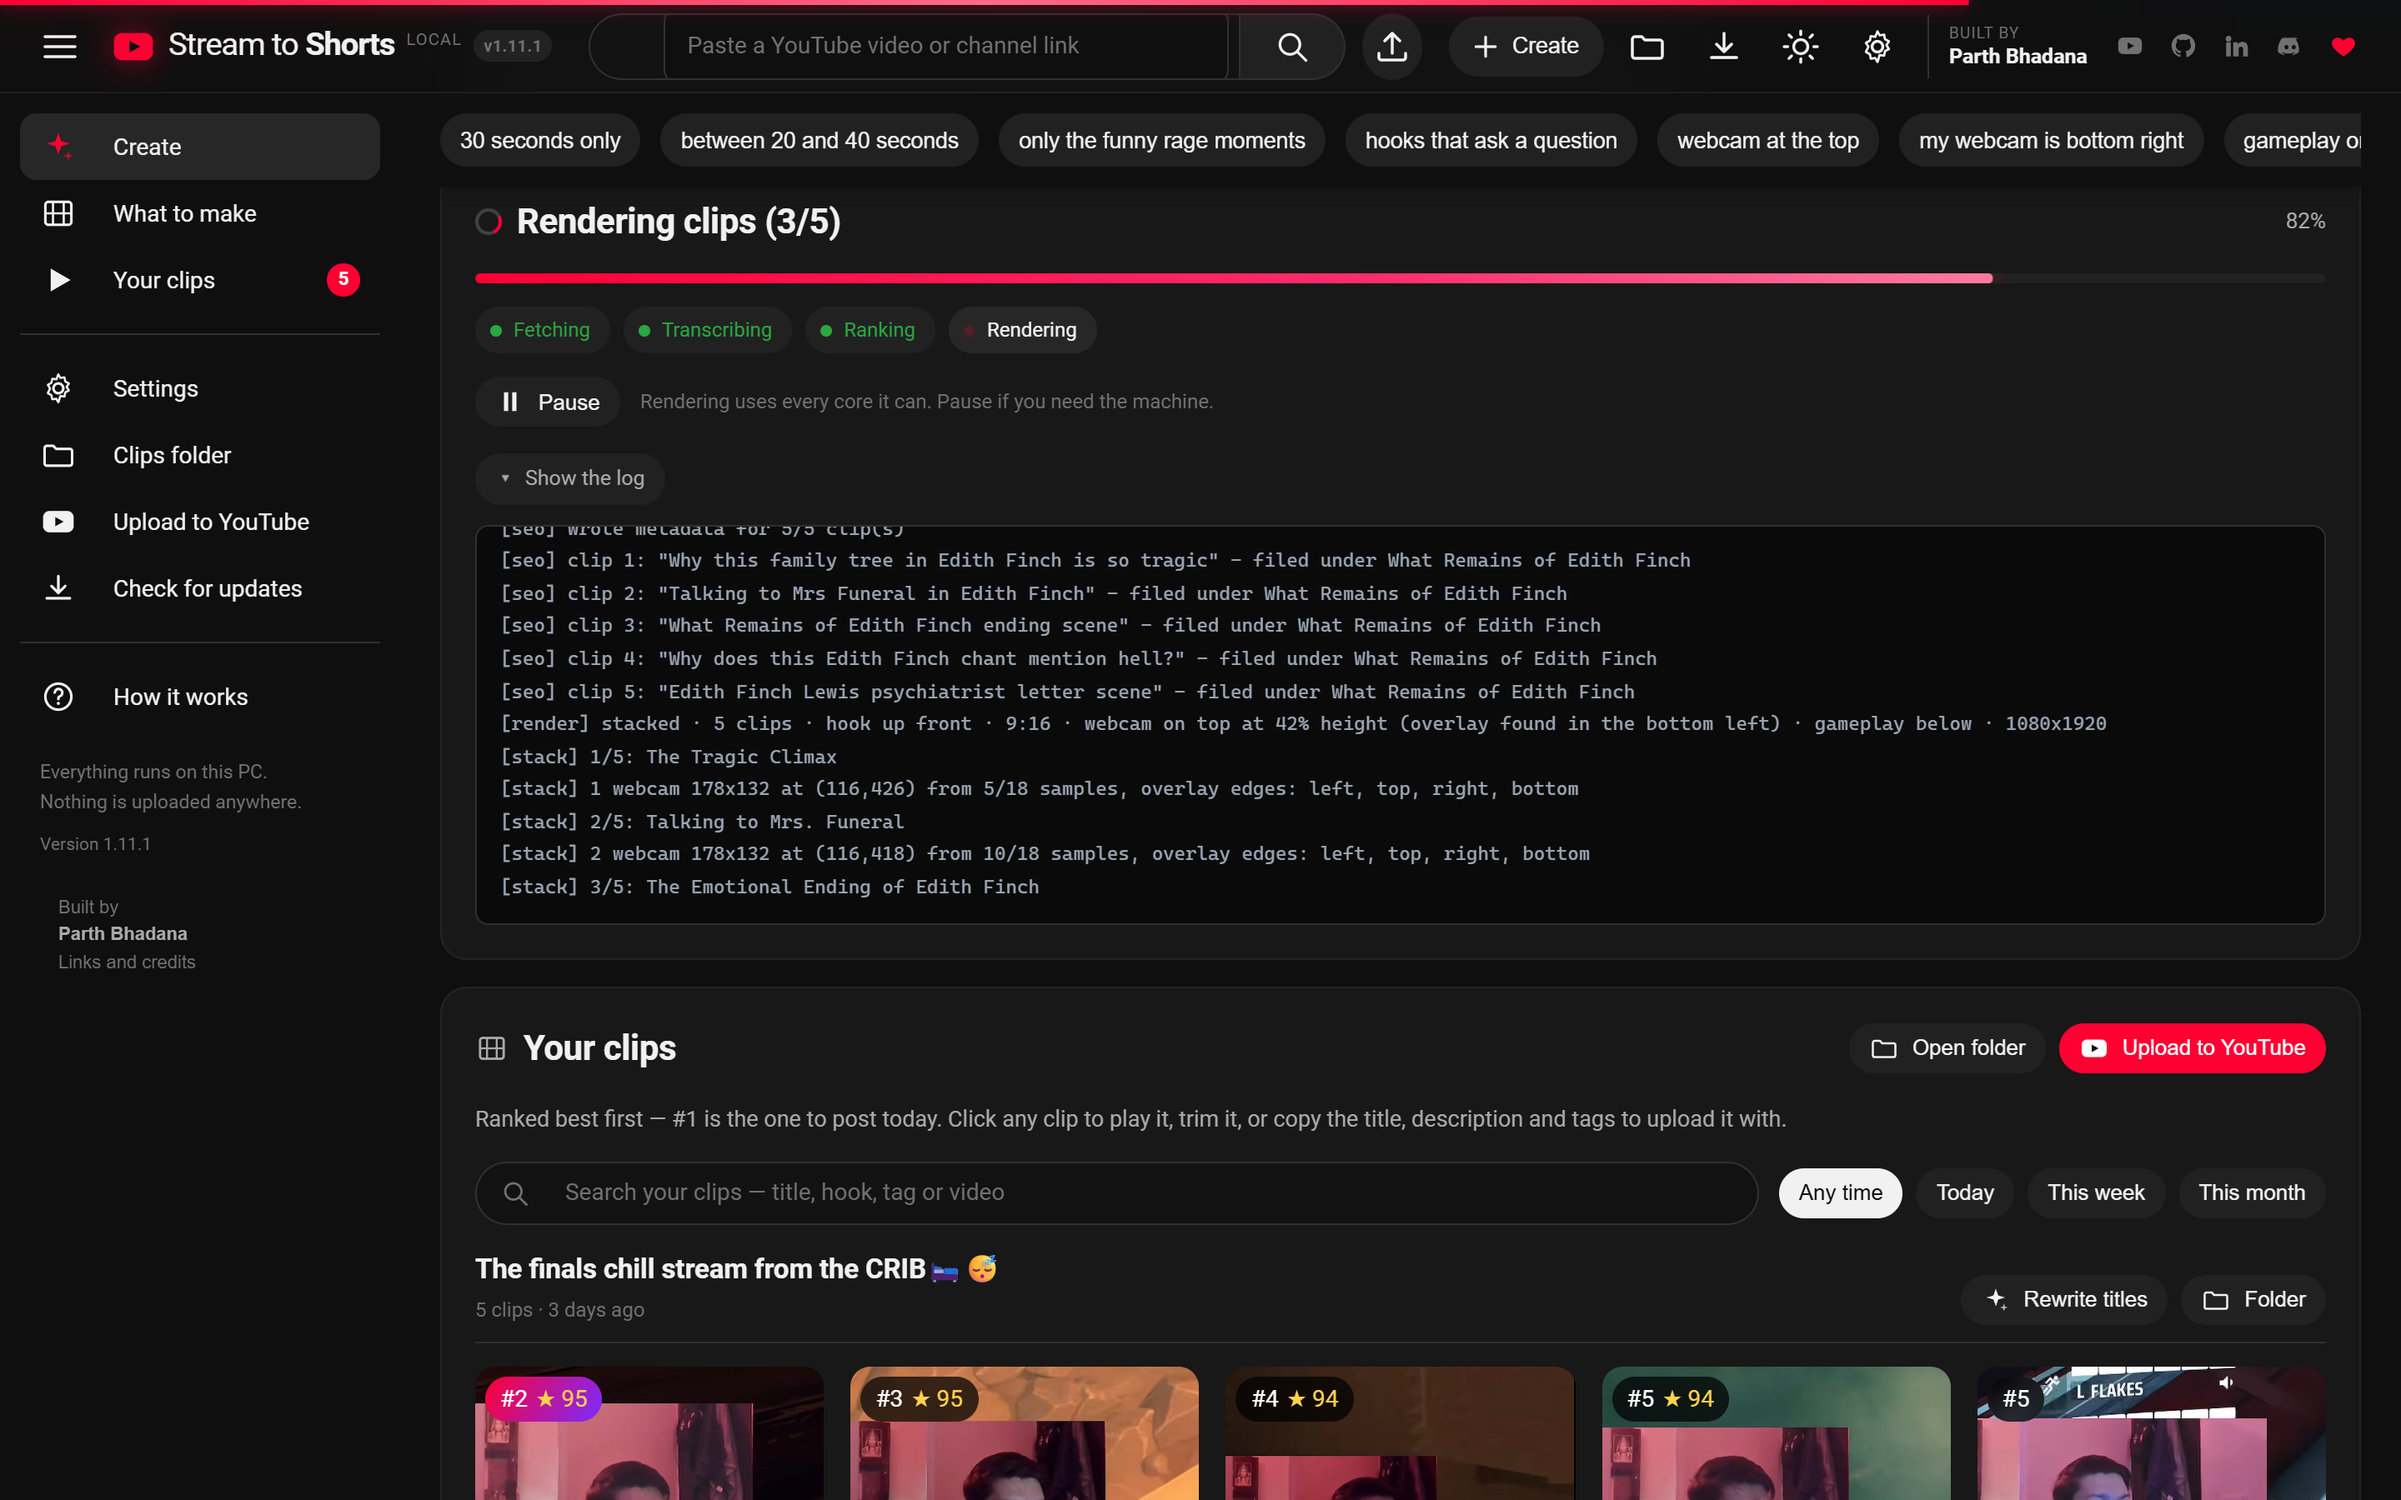
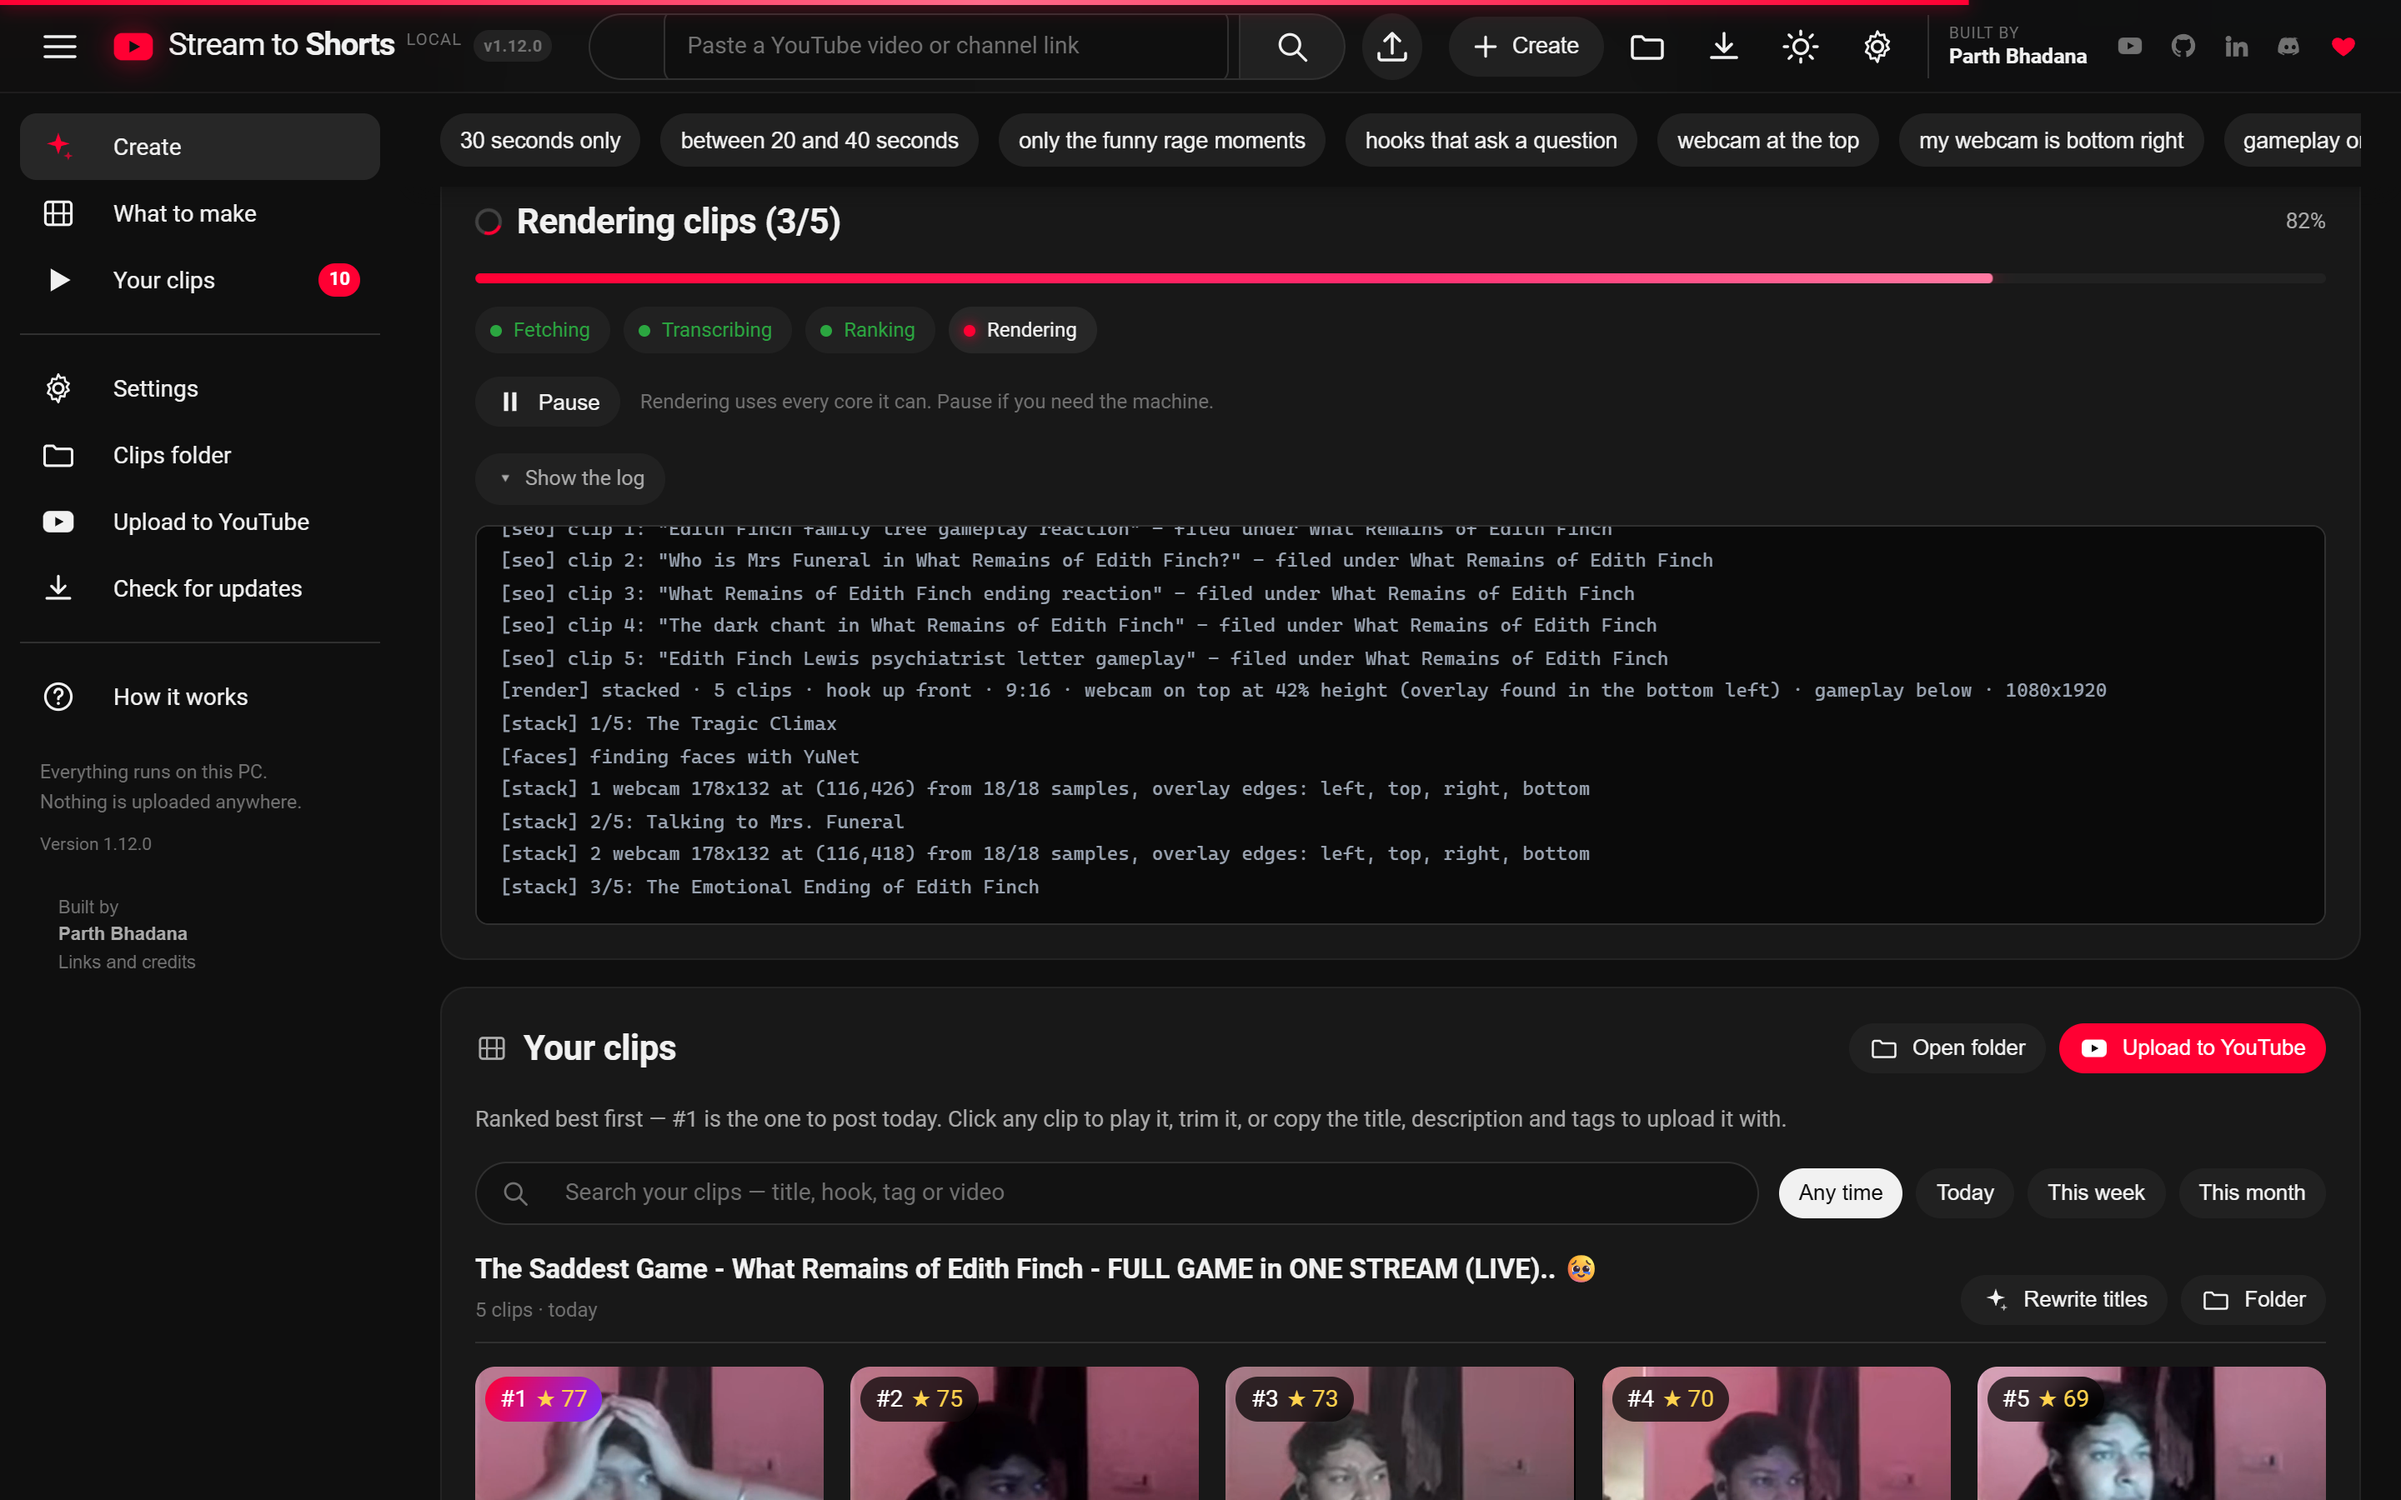
docs: v1.12.0 screenshots, a Processor screenshot, and the stale bits fixed
Screenshots: welcome, create, clips and progress retaken on v1.12.0 (they
showed v1.11.1); the progress log now shows YuNet finding the webcam from
18/18 samples. New 06-processor shows Settings -> Processor on Automatic, with
video on NVENC and transcription on CUDA.

README: authorship re-measured at v1.12.0 (25,072 lines, 94.4%, 198 commits),
build size 220 MB with the bundled face model noted. HOW_IT_WORKS: contents
link to the renamed packaging section fixed and 15b/16a-c listed, frontend
~5.2k lines, Processor in the Settings drawer and in live re-reading.
CONCEPTS: two sections were both 12a - renumbered and listed in the contents;
cooperative pause for in-process work; why-is-it-slow gains the GPU and the
seek fix.

diff --git a/CONCEPTS.md b/CONCEPTS.md
@@ -39,6 +39,10 @@ engineering is.
 10. [CS: reliability and failure design](#10-cs-reliability-and-failure-design)
 11. [CS: security boundaries](#11-cs-security-boundaries)
 12. [CS: operating systems and packaging](#12-cs-operating-systems-and-packaging)
+    - 12a. [Process control, and trust as a UX property](#12a-cs-process-control-and-trust-as-a-ux-property)
+    - 12b. [Indirection, and the things it must not reach](#12b-cs-indirection-and-the-things-it-must-not-reach)
+    - 12c. [Software distribution and self-update](#12c-cs-software-distribution-and-self-update)
+    - 12d. [Absence as a signal](#12d-cs-absence-as-a-signal)
 13. [CS: internationalisation](#13-cs-internationalisation)
 14. [Questions you should expect](#14-questions-you-should-expect)
 15. [What you would do next](#15-what-you-would-do-next)
@@ -906,6 +910,15 @@ and a gate on what starts next. Either alone leaves half the work going, and
 the race between them — a child started in the instant after the gate was
 checked — has to be closed deliberately rather than assumed away.
 
+And suspension only reaches *processes*. Work done inside the app itself — here
+Whisper's transcription and the face-tracking pass — has no process to suspend,
+so it needs **cooperative** pausing instead: a checkpoint in its loop that
+blocks on the same gate. Whisper's generator is lazy, so blocking between
+segments stops it decoding the next window, on a CPU or a GPU alike. That is
+the general split: pre-emptive control for what the OS owns, cooperative
+checkpoints for what your own loop owns, and a pause button is only honest if
+it has both.
+
 **Inherited environment.** A GUI process has no console, so the OS creates one
 whenever it starts a console program. That is not a bug in either program; it
 is what happens when a design assumption (programs have a terminal) meets a
@@ -929,7 +942,7 @@ interface. Keeping both — a readable name outside, the id in a manifest inside
 
 ---
 
-## 12a. CS: indirection, and the things it must not reach
+## 12b. CS: indirection, and the things it must not reach
 
 **The concept.** A theme is the textbook use of one level of indirection:
 name every colour, then swap what the names point at. The interesting part is
@@ -966,7 +979,7 @@ different result, because the surround differs. Themes are not inversions.
 
 ---
 
-## 12b. CS: software distribution and self-update
+## 12c. CS: software distribution and self-update
 
 **The concept.** Getting software onto a machine and keeping it current are
 different problems. Packaging solves the first. The second is only interesting
@@ -1034,7 +1047,7 @@ need one manual download. Worth stating plainly rather than discovering.
 
 ---
 
-## 12c. CS: absence as a signal
+## 12d. CS: absence as a signal
 
 **The problem.** A render finishes. Should the app interrupt you about it? Only
 if you are not already looking at it — and a server process cannot see its own
@@ -1119,7 +1132,12 @@ Follow [§2](#2-the-system-in-one-picture) top to bottom. Mention the caches.
 **"Why is it slow?"**
 Transcription dominates — it is the only stage proportional to *video length*
 rather than clip count. Which is why it is cached, and why the GPU path was
-worth fixing (104s → 21s on 900s of audio).
+worth fixing (104s → 21s on 900s of audio). Rendering is the rest, and the
+Processor setting moves it onto the graphics chip where one really works —
+measured 2× on the stacked layout. But the biggest single speed-up was not a
+GPU at all: face-follow was decoding the whole stream up to every clip because
+of where one `-ss` sat, and moving it made that layout 5× faster. Profile the
+stage before buying hardware for it.
 
 **"How do you handle a 4-hour video when the context window is smaller?"**
 Chunking with overlap, per-chunk checkpointing, then dedupe across chunks.

diff --git a/HOW_IT_WORKS.md b/HOW_IT_WORKS.md
@@ -48,7 +48,11 @@ anyone.
 13. [Configuration and precedence](#13-configuration-and-precedence)
 14. [Quota accounting and provider fallback](#14-quota-accounting-and-provider-fallback)
 15. [Caching: five independent layers](#15-caching-five-independent-layers)
-16. [Packaging into a Windows .exe](#16-packaging-into-a-windows-exe)
+    - 15b. [Two themes out of one set of rules](#15b-two-themes-out-of-one-set-of-rules)
+16. [Packaging: a Windows .exe, a mac .app, a Linux binary](#16-packaging-a-windows-exe-a-mac-app-a-linux-binary)
+    - 16a. [Subprocesses: windows, and stopping them](#16a-subprocesses-windows-and-stopping-them)
+    - 16b. [Shipping updates to an installed .exe](#16b-shipping-updates-to-an-installed-exe)
+    - 16c. [Telling somebody a run has finished](#16c-telling-somebody-a-run-has-finished)
 
 **Reference**
 17. [Rough edges and stale docs](#17-rough-edges-and-stale-docs)
@@ -138,7 +142,7 @@ Two fixes, and they are the two most interesting parts of the codebase:
 | Video processing | **ffmpeg** (subprocess) | Single-pass filter graphs do crop/scale/stack without touching frames in Python |
 | Computer vision | **OpenCV** — **YuNet** (`FaceDetectorYN`), Haar as fallback — + **NumPy** | A 230 KB learned face detector shipped in the build, no GPU needed; overlay borders from statistics over a stack of frames |
 | Hardware encoding | ffmpeg's **NVENC / VideoToolbox / Quick Sync / AMF** | Encoding on the graphics chip when one really works — each is test-encoded before use — with libx264 as the fallback |
-| Frontend | **Vanilla JS + CSS**, no framework | Zero build step, ~3.5k lines total, ships as three static files inside the exe |
+| Frontend | **Vanilla JS + CSS**, no framework | Zero build step, ~5.2k lines total, ships as static files inside the build |
 | Live updates | **Server-Sent Events** | One-directional server→client is exactly the shape of progress reporting; simpler than WebSockets |
 | Desktop shell | **pywebview** (Edge WebView2) | A native window with no address bar, using a browser engine Windows already has |
 | Packaging | **PyInstaller** | Single-file .exe with ffmpeg bundled — the user installs nothing |
@@ -1638,6 +1642,10 @@ Reads `/api/settings` and `/api/usage` to render:
   choice is made with the number in view.
 - **Budget meters** — requests used today vs the daily cap, and time until reset
 - Save-location picker and the disk cleanup scanner
+- **Processor** — Automatic, GPU or CPU only, with what video encoding and
+  transcription will actually run on and why, read from `GET /api/processor`
+  each time the drawer opens ([§7.5](#75-which-processor--accelpy)). "Check
+  again" re-runs the encoder tests, for someone who has just installed a driver
 
 If a setting is pinned by an environment variable, the API reports
 `provider_pinned` / `model_pinned` and the UI says so — the difference between a
@@ -1702,9 +1710,10 @@ onto a silently-empty dict would drop the API key it holds. It raises instead of
 destroying the thing it was asked to update. It also `chmod 600`s the file where
 that's meaningful.
 
-**Live re-reading.** `current_provider()` and `current_model()` go through
-`user_config` on every call, so switching provider in the UI takes effect on the
-next request without a restart.
+**Live re-reading.** `current_provider()`, `current_model()` and
+`current_processor()` go through `user_config` on every call, so switching
+provider takes effect on the next request and switching processor on the next
+clip — even partway through a paused run — without a restart.
 
 ### Where things land
 

diff --git a/README.md b/README.md
@@ -111,6 +111,8 @@ failing, and the panel says in plain words what is being used and why. If a
 graphics driver keeps misbehaving, **CPU only** never touches it. The choice
 applies from the next clip, even on a paused run.
 
+<img src="assets/screenshots/06-processor.png" alt="Settings, Processor section: Automatic selected, video encoding on the NVIDIA GPU (NVENC), transcription on the NVIDIA GPU (CUDA)" width="880">
+
 ### Your clips folder is readable
 
 Runs are filed under the **title of the video they came from**, with the date,
@@ -531,18 +533,18 @@ lists its authors as contributors here — their commits are genuinely in this
 repo's history, and the licence keeps them credited.
 
 Rather than assert a boundary, here is the measured one. `git blame` over every
-text file in the current tree, 24,094 lines (re-measured at v1.11.2):
+text file in the current tree, 25,072 lines (re-measured at v1.12.0):
 
 | | Lines | Share |
 |---|---:|---:|
-| **Parth Bhadana** | **22,665** | **94.1%** |
-| Anil Matcha (base) | 1,106 | 4.6% |
+| **Parth Bhadana** | **23,659** | **94.4%** |
+| Anil Matcha (base) | 1,097 | 4.4% |
 | Arael Espinosa | 194 | 0.8% |
-| LathissKhumar | 129 | 0.5% |
+| LathissKhumar | 122 | 0.5% |
 
-Code only, excluding documentation: **93.3%** mine. Since the fork point
-(`c30376e`, 29 Jul 2026): **190 commits**, **+22,654 / −413 lines**, and
-**58 of the 79 files** now in the repo did not exist before.
+Code only, excluding documentation: **93.7%** mine. Since the fork point
+(`c30376e`, 29 Jul 2026): **198 commits**, **+23,648 / −429 lines**, and
+**64 of the 85 files** now in the repo did not exist before.
 
 Run `git blame` yourself — that is rather the point of quoting a number instead
 of a claim.
@@ -789,7 +791,8 @@ python build_exe.py --onefile --clean
 
 Put `ffmpeg.exe` and `ffprobe.exe` in a `./bin` folder first and they get bundled,
 which is how the published build needs nothing installed. That's what makes it
-219 MB; without them it's 153 MB and ffmpeg has to be on the user's PATH. Drop
+220 MB; without them it's 153 MB and ffmpeg has to be on the user's PATH. The
+YuNet face model in `assets/models` is bundled either way. Drop
 `--onefile` for a folder build that starts faster but has to be zipped to share.
 
 On a Mac the same command without `--onefile` produces `dist/StreamToShorts.app`:
